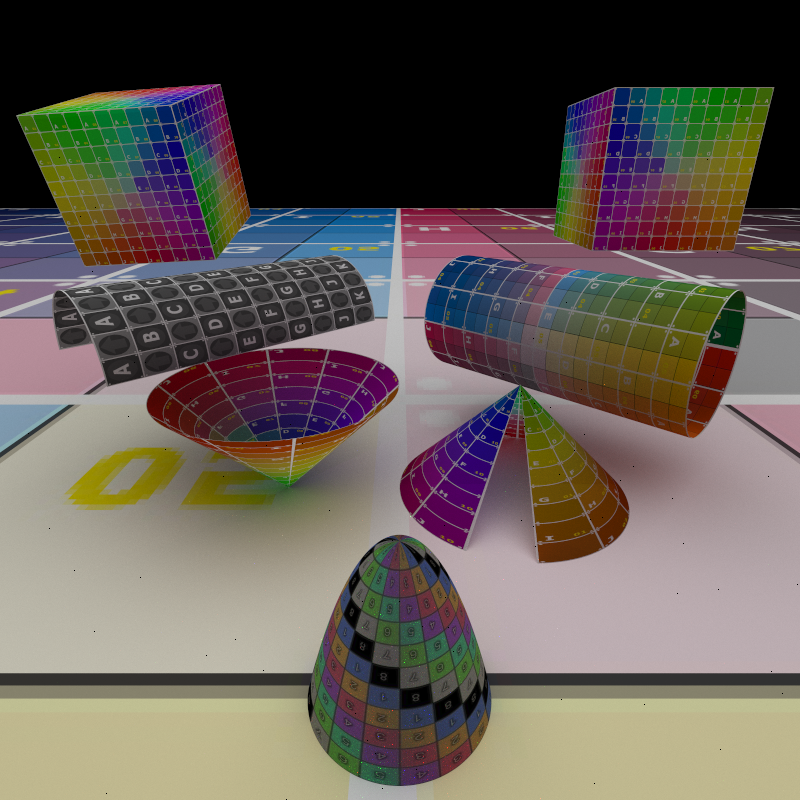
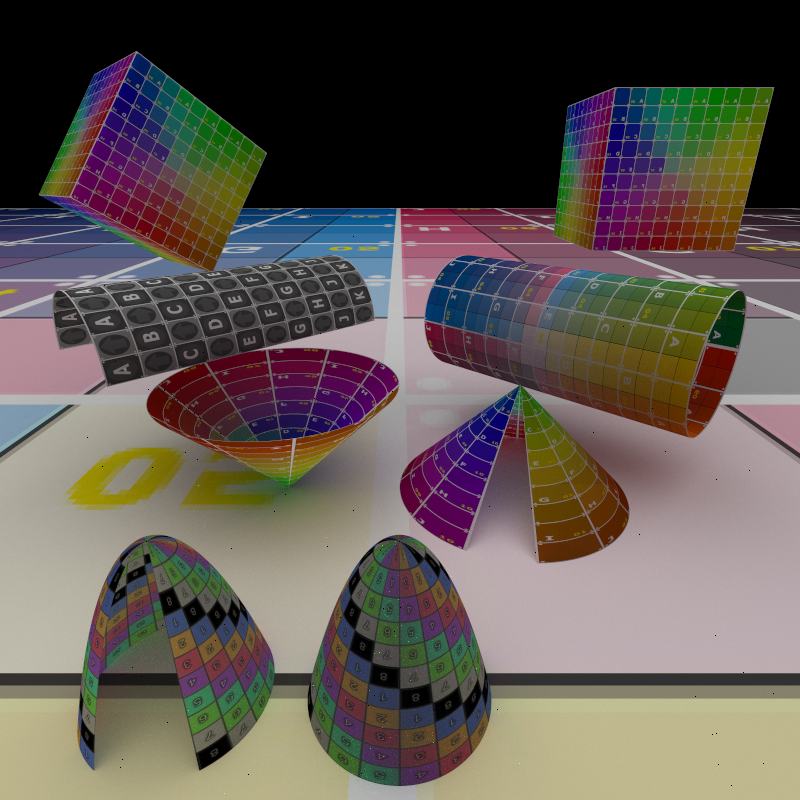
Paraboloid demo.

Changed region(s): [[0.0, 0.0625, 0.3438, 0.3438], [0.0938, 0.6562, 0.3438, 1.0]]

diff --git a/raytracer/src/main.rs b/raytracer/src/main.rs
@@ -1087,7 +1087,6 @@ fn scene_mesh() -> (HittableList, HittableList) {
     let block = Arc::new(Block::unit_cube(block_mtl));
 
     use crate::transform::Transform;
-    use math::mat4;
     use math::quat;
     use math::vec3;
 
@@ -1142,9 +1141,7 @@ fn scene_mesh() -> (HittableList, HittableList) {
     let r = quat::to_rotation_matrix(quat::Quat::axis_angle(-90 as Real, vec3::consts::unit_x()))
         * quat::to_rotation_matrix(quat::Quat::axis_angle(-90 as Real, vec3::consts::unit_z()));
     let t = Mat4::translate((25f32, 0f32, 50f32).into());
-    let cone = Arc::new(
-        Cone::unit(Some(330f32.to_radians()), cone_mtl.clone()), // Cone::unit(None, cone_mtl.clone()),
-    );
+    let cone = Arc::new(Cone::unit(Some(330f32.to_radians()), cone_mtl.clone()));
     world.add(Arc::new(Transform::new(t * r * s, cone)));
 
     let hyp_mtl = Arc::new(Lambertian::from_texture(Arc::new(ImageTexture::new(
@@ -1163,7 +1160,21 @@ fn scene_mesh() -> (HittableList, HittableList) {
         hyp_mtl.clone(),
     ));
 
-    world.add(Arc::new(Transform::new(t * r * s, hyp)));
+    world.add(Arc::new(Transform::new(t * r * s, hyp.clone())));
+
+    let r = quat::to_rotation_matrix(quat::Quat::axis_angle(-120 as Real, vec3::consts::unit_y()))
+        * quat::to_rotation_matrix(quat::Quat::axis_angle(90 as Real, vec3::consts::unit_x()));
+    let t = Mat4::translate((-30f32, 25f32, 100f32).into());
+    let s = Mat4::uniform_scale(25f32);
+    let hyp = Arc::new(Paraboloid::new(
+        0.5f32,
+        -0.5f32,
+        1f32,
+        300f32.to_radians(),
+        hyp_mtl.clone(),
+    ));
+
+    world.add(Arc::new(Transform::new(t * r * s, hyp.clone())));
 
     let mut lights = HittableList::new();
     lights.add(Arc::new(XZRect {
